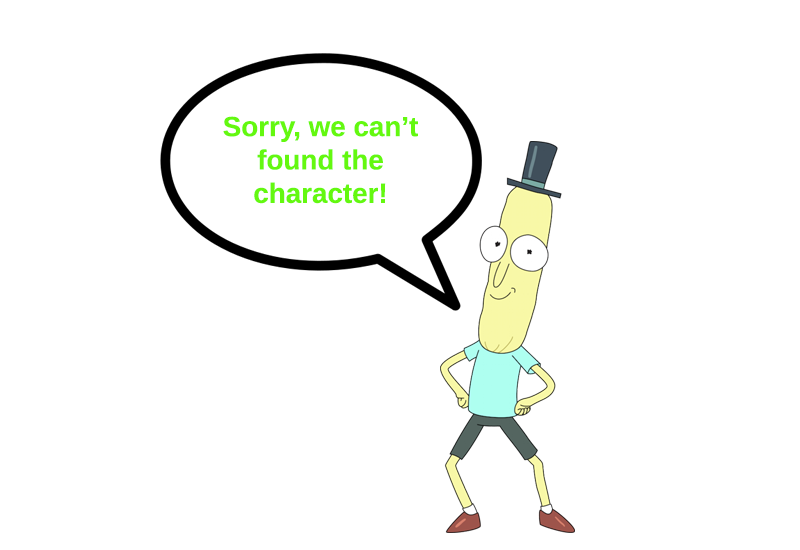
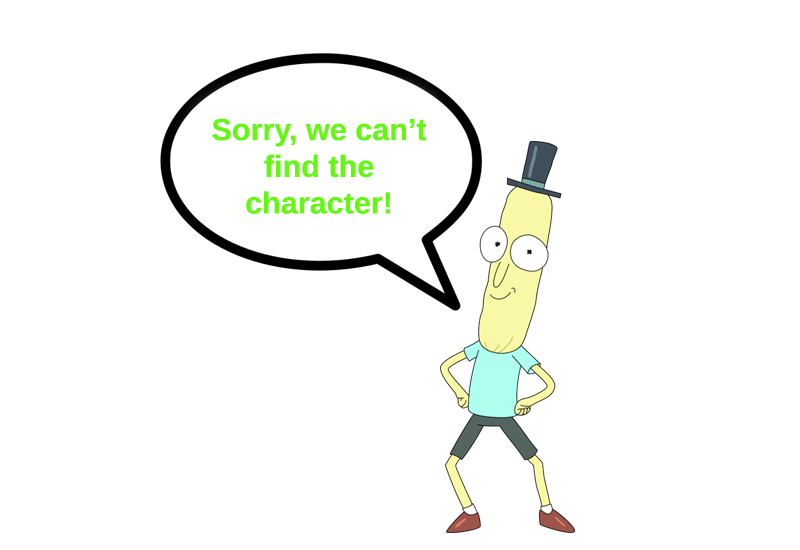
Add Not Exist and Not Found

Changed region(s): [[0.25, 0.2164, 0.5312, 0.4018]]

diff --git a/src/components/CharacterDetail.js b/src/components/CharacterDetail.js
@@ -6,6 +6,7 @@ import { faHeartbeat } from "@fortawesome/free-solid-svg-icons";
 import { faSkullCrossbones } from "@fortawesome/free-solid-svg-icons";
 import { faUserAlt } from "@fortawesome/free-solid-svg-icons";
 import { faOctopusDeploy } from "@fortawesome/free-brands-svg-icons";
+import { faQuestion } from "@fortawesome/free-solid-svg-icons";
 
 const CharacterDetail = (props) => {
   const status =
@@ -13,6 +14,8 @@ const CharacterDetail = (props) => {
       <FontAwesomeIcon icon={faSkullCrossbones} />
     ) : props.status === "Alive" ? (
       <FontAwesomeIcon icon={faHeartbeat} />
+    ) : props.status === "unknown" ? (
+      <FontAwesomeIcon icon={faQuestion} />
     ) : (
       props.status
     );

diff --git a/src/components/NotFound.js b/src/components/NotFound.js
@@ -1,14 +1,15 @@
 import React from "react";
 import notFound from "../images/notfound.png";
+import "../stylesheets/layouts/NotFound.scss";
 import { Link } from "react-router-dom";
 
 const NotFound = () => {
   return (
-    <div className="character__notfound">
-      <Link className="goback-link" to="/">
-        <button className="back-btn">Go back</button>
+    <div className="character-notfound">
+      <Link className="nfgoback-link" to="/">
+        <button className="nfback-btn">Go back</button>
       </Link>
-      <img src={notFound} alt="Not found" />
+      <img className="notfound-image" src={notFound} alt="Not found" />
     </div>
   );
 };

diff --git a/src/components/CharacterList.js b/src/components/CharacterList.js
@@ -1,6 +1,7 @@
 import React from "react";
 import PropTypes from "prop-types";
 import CharacterCard from "./CharacterCard";
+import NotExist from "./NotExist";
 
 const CharacterList = (props) => {
   const charactersItems = props.characters
@@ -19,9 +20,13 @@ const CharacterList = (props) => {
         </li>
       );
     });
-
-  return <ul className="character-list">{charactersItems}</ul>;
+  if (charactersItems.length !== 0) {
+    return <ul className="character-list">{charactersItems}</ul>;
+  } else {
+    return <NotExist />;
+  }
 };
+
 CharacterList.propTypes = {
   characters: PropTypes.array,
   searchValue: PropTypes.string,

diff --git a/src/stylesheets/layouts/NotFound.scss b/src/stylesheets/layouts/NotFound.scss
@@ -1,9 +1,18 @@
-.goback-link {
+.character-notfound {
+  display: flex;
+  flex-direction: column;
+  justify-content: center;
+  align-items: center;
+  margin-top: -150px;
+}
+
+.nfgoback-link {
   font-size: 20px;
   line-height: 45px;
   text-decoration: none;
+  cursor: url("../../images/pointer.png"), auto;
 }
-.back-btn {
+.nfback-btn {
   width: 95px;
   height: 55px;
   margin-top: 60px;
@@ -18,6 +27,9 @@
   outline: none;
   cursor: url("../../images/pointer.png"), auto;
   @media all and (min-width: 1200px) {
-    margin-top: 30px;
+    margin-top: 25px;
   }
+}
+.notfound-image {
+  margin-top: -50px;
 }

diff --git a/src/components/NotExist.js b/src/components/NotExist.js
@@ -1,0 +1,13 @@
+import React from "react";
+import notExist from "../images/notexist.png";
+import "../stylesheets/layouts/NotExist.scss";
+
+const NotExist = () => {
+  return (
+    <div className="character-notexist">
+      <img className="notfound-image" src={notExist} alt="Not found" />
+    </div>
+  );
+};
+
+export default NotExist;

diff --git a/src/stylesheets/layouts/CharacterList.scss b/src/stylesheets/layouts/CharacterList.scss
@@ -1,5 +1,6 @@
 .character-list {
   display: flex;
+  flex-direction: row;
   flex-wrap: wrap;
   justify-content: center;
   margin-top: 30px;

diff --git a/src/stylesheets/layouts/NotExist.scss b/src/stylesheets/layouts/NotExist.scss
@@ -1,0 +1,6 @@
+.character-notexist {
+  display: flex;
+  flex-direction: column;
+  justify-content: center;
+  align-items: center;
+}

diff --git a/README.md b/README.md
@@ -1,6 +1,6 @@
 # Rick & Morty Character Finder
 
-!![](https://github.com/Adalab/modulo-3-evaluacion-final-AraceliLobo/blob/master/src/images/gifreadme.gif)
+![](https://github.com/Adalab/modulo-3-evaluacion-final-AraceliLobo/blob/master/src/images/gifreadme.gif)
 
 ## El ejercicio
 
@@ -32,6 +32,6 @@ El listado debe tiene los siguientes componentes:
 
 ### Parte 4: Maquetación
 
-La maquetación ha sido realizado con SASS /CSS.
+La maquetación ha sido realizada con SASS /CSS.
 
 ¡ENCUENTRA A TU PERSONAJE FAVORITO! ![](https://github.com/Adalab/modulo-3-evaluacion-final-AraceliLobo/blob/master/src/images/rickreadme.gif)
